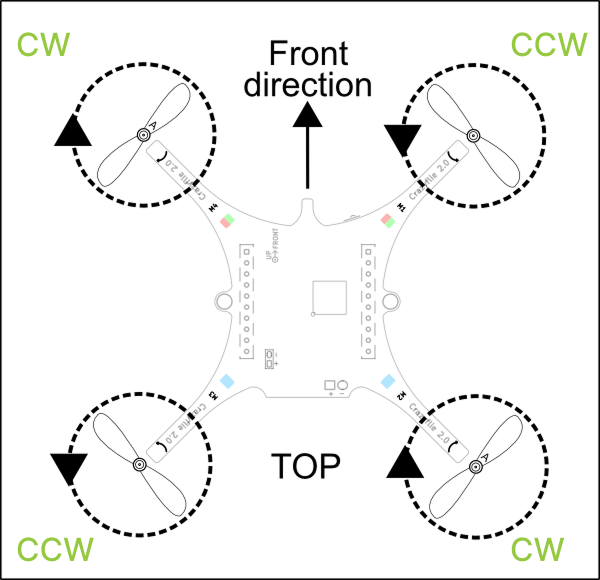
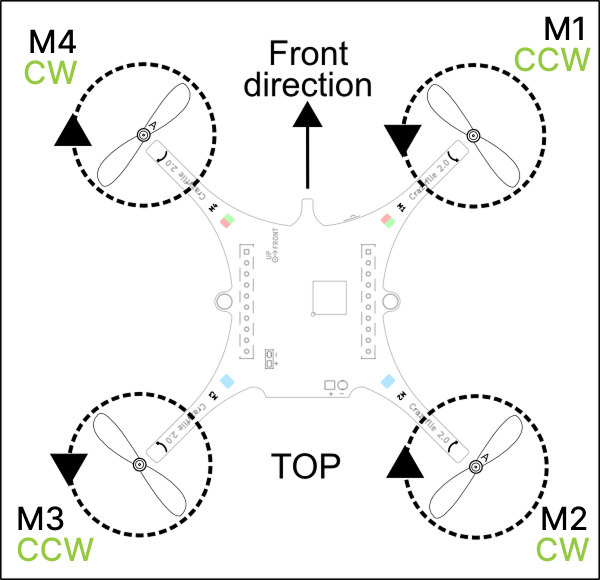
Comments and CI fix

diff --git a/src/documentation/tutorials/getting-started-with-crazyflie-2-x.md b/src/documentation/tutorials/getting-started-with-crazyflie-2-x.md
@@ -34,7 +34,7 @@ have all of them before you start assembling.
 <table>
   <tr>
     <td width="120">
-      <img src="/images/getting-started/bare-pcb.webp" width="120">
+      <img src="/images/getting-started/bare-pcb.webp" alt="Crazyflie 2.x control board" width="120">
     </td>
     <td>
       Crazyflie 2.0 or 2.1 control board with all components mounted
@@ -42,16 +42,16 @@ have all of them before you start assembling.
   </tr>
   <tr>
     <td width="120">
-      <img src="/images/getting-started/props-47-17.webp" width="120">
+      <img src="/images/getting-started/props-47-17.webp" alt="Clockwise and counter clockwise propellers" width="120">
     </td>
     <td>
       5 x Clockwise rotation (CW) propellers (3 spare, marked as "5R" on package) <br>
-      5 x CCW Counter clockwise (CCW) propellers (3 spare, marked as "5L" on package)
+      5 x Counter clockwise (CCW) propellers (3 spare, marked as "5L" on package)
     </td>
   </tr>
   <tr>
     <td width="120">
-      <img src="/images/getting-started/motor-mounts.webp" width="120">
+      <img src="/images/getting-started/motor-mounts-21.webp" alt="Motor mounts" width="120">
     </td>
     <td>
       6 x Motor mounts (2 spare)
@@ -59,7 +59,7 @@ have all of them before you start assembling.
   </tr>
   <tr>
     <td width="120">
-      <img src="/images/getting-started/250-lipo-battery.webp" width="120">
+      <img src="/images/getting-started/250-lipo-battery.webp" alt="LiPo battery" width="120">
     </td>
     <td>
       1 x 250mAh LiPo battery
@@ -67,7 +67,7 @@ have all of them before you start assembling.
   </tr>
   <tr>
     <td width="120">
-      <img src="/images/getting-started/coreless-dc-motors.webp" width="120">
+      <img src="/images/getting-started/coreless-dc-motors.webp" alt="Coreless DC motors" width="120">
     </td>
     <td>
       5 x Coreless DC motors (1 spare)
@@ -75,7 +75,7 @@ have all of them before you start assembling.
   </tr>
   <tr>
     <td width="120">
-      <img src="/images/getting-started/connector-pins.webp" width="120">
+      <img src="/images/getting-started/connector-pins.webp" alt="Short and long expansion connector pins" width="120">
     </td>
     <td>
       2 x Short expansion connector pins (1×10, 2mm spacing, 8 or 9 mm long) <br>
@@ -84,7 +84,7 @@ have all of them before you start assembling.
   </tr>
   <tr>
     <td width="120">
-      <img src="/images/getting-started/battery-holder.webp" width="120">
+      <img src="/images/getting-started/battery-holder.webp" alt="Battery holder expansion board" width="120">
     </td>
     <td>
       1 x Battery holder expansion board
@@ -92,7 +92,7 @@ have all of them before you start assembling.
   </tr>
   <tr>
     <td width="120">
-      <img src="/images/getting-started/foam-pad.webp" width="120">
+      <img src="/images/getting-started/foam-pad.webp" alt="Foam pad" width="120">
     </td>
     <td>
       1 x Foam pad
@@ -100,7 +100,7 @@ have all of them before you start assembling.
   </tr>
   <tr>
     <td width="120">
-      <img src="/images/getting-started/micro-usb-cable.webp" width="120">
+      <img src="/images/getting-started/micro-usb-cable.webp" alt="Micro-USB cable" width="120">
     </td>
     <td>
       1 x USB cable (only with the Crazyflie 2.1)
@@ -188,7 +188,7 @@ Now it’s time to attach the propellers.
 **Before attaching:** 
 
 There are two kinds of propellers, the clock wise (CW) and counter clock wise (CCW) propellers, each kind has their own bag in the box:
-* For the Crazyflie 2.1+ the packaging for the propellers are marked "5R" for right/CW and "5L" for right/CW. The propellers are marked "47-17R" for CW and "47-17" for CCW.  
+* For the Crazyflie 2.1+ the packaging for the propellers are marked "5R" for right/CW and "5L" for left/CCW. The propellers are marked "47-17R" for CW and "47-17" for CCW.  
 * For the Crazyflie 2.1 the propellers will look a little bit different, and the CW propellers are also usually marked with an "A", "A1" or "A2", while the CCW propellers are marked with "B", "B1" or "B2" (the number is irrelevant). 
 
 **Attaching:**
@@ -229,10 +229,7 @@ bent and placed underneath the PCB to be out of the way.
 {% endsi_step %}
 
 {% si_step Power on! %}
-The assembly is finished, now it’s time to power it on! While powering on, keep the Crazyflie still on a flat surface to let it complete the [start up sequence](#start-up). The power button is placed on the front right of the Crazyflie, right next to the M1 LED. Note that the power
-button is a push button, not a sliding button. During the power-on
-self-test all the propellers will spin in sequence. Make sure they all
-spin, if they don’t then check the motor connections.
+The assembly is finished, now it’s time to power it on! While powering on, keep the Crazyflie still on a flat surface to let it complete the [start up sequence](#start-up). The power button is placed on the front right of the Crazyflie, right next to the M1 LED. Note that the power button is a push button, not a sliding button.
 {% tutorialVideo /videos/power_on.mp4 %}
 {% endsi_step %}
 
@@ -240,13 +237,13 @@ spin, if they don’t then check the motor connections.
 When the Crazyflie is powered on it will automatically go through a short
 sequence of events to get ready for flight.
 
-1. **Run self tests** - the Crazyflie checks that the hardware is OK.
+1. **Run self tests** - the Crazyflie checks that the hardware is OK. During the power-on self-test all the propellers will spin in sequence. Make sure they all spin, if they don’t then check the motor connections.
 1. **Calibrate sensors** - the Crazyflie reads its sensors to get base values.
 It must be *absolutely still* to do this, so it's best to put it on a level surface for a second.
 1. **Ready to fly!**
 {% endsi_step %}
 
-{% si_step Understanding the LEDs; leds %}
+{% si_step Understanding the LEDs; understanding-leds %}
 To understand and diagnose the Crazyflie you need to understand what the LEDs mean. Here is a short explanation of each state of the LEDs:
 
 * **Power on and All is Good:** The blue back LEDs (M2 and M3) are fully lit and the
@@ -277,7 +274,7 @@ You can fly the Crazyflie either from a mobile device or a computer. Choose your
 {% tab Computer (recommended) %}
 Using your computer to control the Crazyflie will give you the most options
 and best control. This requires:
-* A {% poplink crazyradio-2-0 %} or Crazyradio PA.
+* A {% poplink crazyradio-2-0 %}.
 * If you want to fly the Crazyflie manually you need a gamepad of your choice connected to your computer alongside the Crazyradio.
 
 {% si_intro Installing on a computer; inst-comp %}

diff --git a/src/documentation/tutorials/getting-started-with-crazyflie-brushless.md b/src/documentation/tutorials/getting-started-with-crazyflie-brushless.md
@@ -53,7 +53,7 @@ Start by unpacking the box. It should contain the following items:
 <table>
   <tr>
     <td width="120">
-      <img src="/images/getting-started/bl-pcb.webp" width="120">
+      <img src="/images/getting-started/bl-pcb.webp" alt="Crazyflie Brushless control board" width="120">
     </td>
     <td>
       1 x Crazyflie Brushless control board
@@ -61,16 +61,16 @@ Start by unpacking the box. It should contain the following items:
   </tr>
   <tr>
     <td width="120">
-      <img src="/images/getting-started/bl-props.webp" width="120">
+      <img src="/images/getting-started/bl-props.webp" alt="Clockwise and counter clockwise propellers" width="120">
     </td>
     <td>
-      5 x CCW Counter clockwise (CCW) propellers (3 spare) <br>
+      5 x Counter clockwise (CCW) propellers (3 spare) <br>
       5 x Clockwise rotation (CW) propellers (3 spare)
     </td>
   </tr>
   <tr>
     <td width="120">
-      <img src="/images/getting-started/bl-guards-legs.webp" width="120">
+      <img src="/images/getting-started/bl-guards-legs.webp" alt="Legs and propeller guards" width="120">
     </td>
     <td>
       5 x Legs (1 spare) <br>
@@ -79,7 +79,7 @@ Start by unpacking the box. It should contain the following items:
   </tr>
   <tr>
     <td width="120">
-      <img src="/images/getting-started/350-lipo-battery.webp" width="120">
+      <img src="/images/getting-started/350-lipo-battery.webp" alt="350mAh LiPo battery" width="120">
     </td>
     <td>
       1 x 350mAh LiPo battery
@@ -87,7 +87,7 @@ Start by unpacking the box. It should contain the following items:
   </tr>
   <tr>
     <td width="120">
-      <img src="/images/getting-started/bl-motor.webp" width="120">
+      <img src="/images/getting-started/bl-motor.webp" alt="Brushless motor" width="120">
     </td>
     <td>
       4 x  Brushless motors
@@ -95,7 +95,7 @@ Start by unpacking the box. It should contain the following items:
   </tr>
   <tr>
     <td width="120">
-      <img src="/images/getting-started/connector-pins.webp" width="120">
+      <img src="/images/getting-started/connector-pins.webp" alt="Short and long expansion connector pins" width="120">
     </td>
     <td>
       2 x Short expansion connector pins (1×10, 2mm spacing, 8 or 9 mm long) <br>
@@ -104,7 +104,7 @@ Start by unpacking the box. It should contain the following items:
   </tr>
   <tr>
     <td width="120">
-      <img src="/images/getting-started/battery-holder.webp" width="120">
+      <img src="/images/getting-started/battery-holder.webp" alt="Battery holder expansion board" width="120">
     </td>
     <td>
       1 x Battery holder deck
@@ -112,7 +112,7 @@ Start by unpacking the box. It should contain the following items:
   </tr>
   <tr>
     <td width="120">
-      <img src="/images/getting-started/micro-usb-cable.webp" width="120">
+      <img src="/images/getting-started/micro-usb-cable.webp" alt="Micro-USB cable" width="120">
     </td>
     <td>
       1 x Micro-USB cable (48cm)
@@ -120,7 +120,7 @@ Start by unpacking the box. It should contain the following items:
   </tr>
   <tr>
     <td width="120">
-      <img src="/images/getting-started/black-screws.webp" width="120">
+      <img src="/images/getting-started/black-screws.webp" alt="Short black screws" width="120">
     </td>
     <td>
       14 x Short (black) screws
@@ -128,7 +128,7 @@ Start by unpacking the box. It should contain the following items:
   </tr>
   <tr>
     <td width="120">
-      <img src="/images/getting-started/silver-screws.webp" width="120">
+      <img src="/images/getting-started/silver-screws.webp" alt="Longer silver screws" width="120">
     </td>
     <td>
       5 x Longer (silver) screws
@@ -136,7 +136,7 @@ Start by unpacking the box. It should contain the following items:
   </tr>
   <tr>
     <td width="120">
-      <img src="/images/getting-started/foam-pad.webp" width="120">
+      <img src="/images/getting-started/foam-pad.webp" alt="Foam pad" width="120">
     </td>
     <td>
       1 x Foam battery pad
@@ -144,7 +144,7 @@ Start by unpacking the box. It should contain the following items:
   </tr>
   <tr>
     <td width="120">
-      <img src="/images/getting-started/screwdriver.webp" width="120">
+      <img src="/images/getting-started/screwdriver.webp" alt="Screwdriver" width="120">
     </td>
     <td>
       1 x Screwdriver
@@ -152,7 +152,7 @@ Start by unpacking the box. It should contain the following items:
   </tr>
   <tr>
     <td width="120">
-      <img src="/images/getting-started/prop-tool.webp" width="120">
+      <img src="/images/getting-started/prop-tool.webp" alt="Propeller tool" width="120">
     </td>
     <td>
       1 x Propeller tool

diff --git a/src/support/troubleshooting.md b/src/support/troubleshooting.md
@@ -35,7 +35,7 @@ Do not pair your Android device to the Crazyflie 2.x like other Bluetooth device
 {% si_step Make sure propellers are mounted correctly %}
 Check that the propellers are mounted on the correct motor. Check each propeller
 to see if it is a clock wise or a counter clock wise turning propeller and mount it according to the detailed view below.
-{% img Crazyflie 2.x propeller mounting; medium; /images/getting-started/cf2_props.png %}
+{% img Crazyflie 2.x propeller mounting; medium; /images/getting-started/21-prop-placement.png %}
 {% endsi_step %}
 
 {% si_step Make sure propellers are mounted with right side up %}
